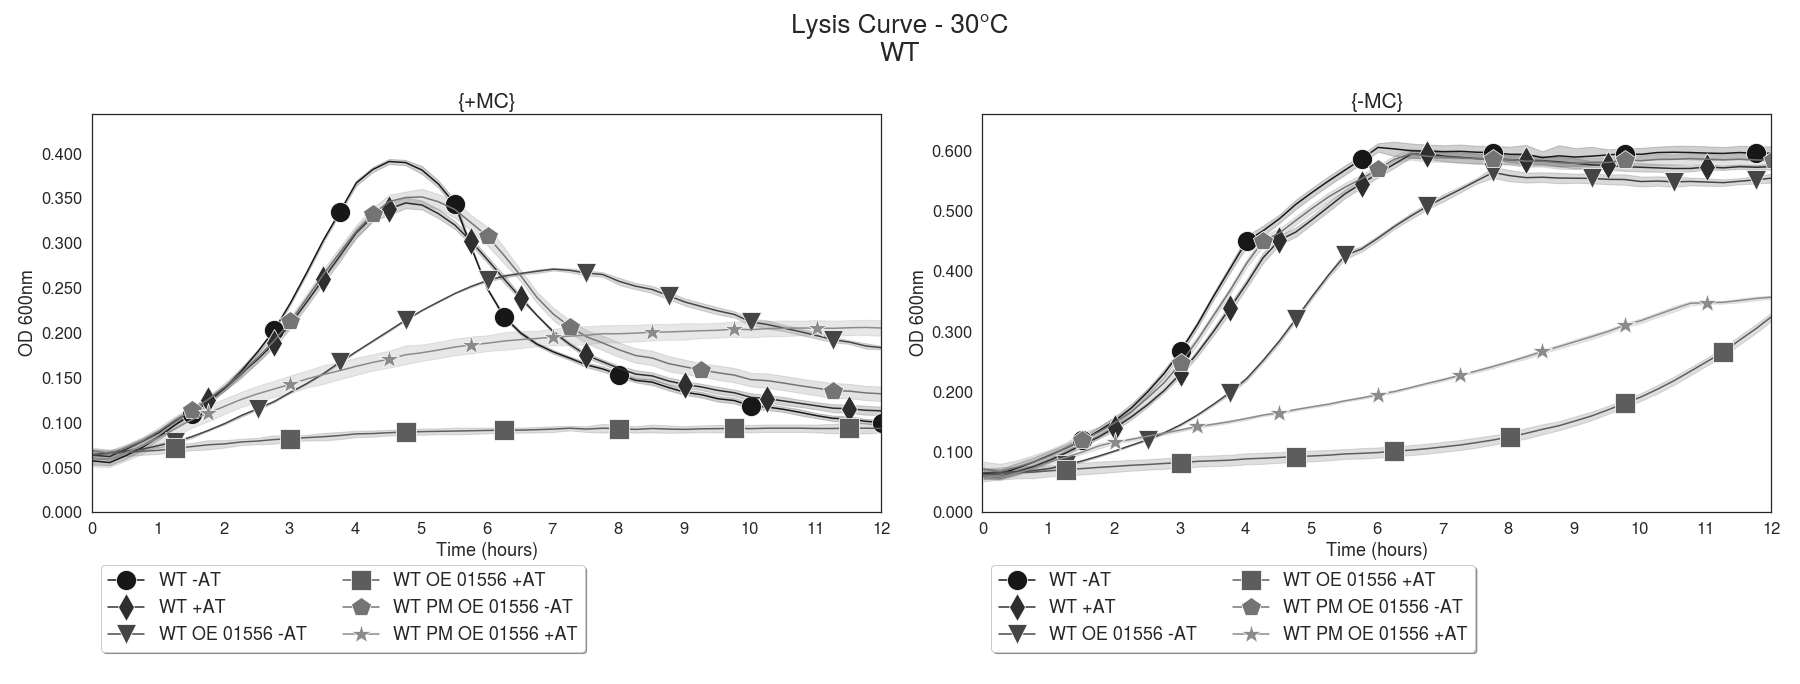
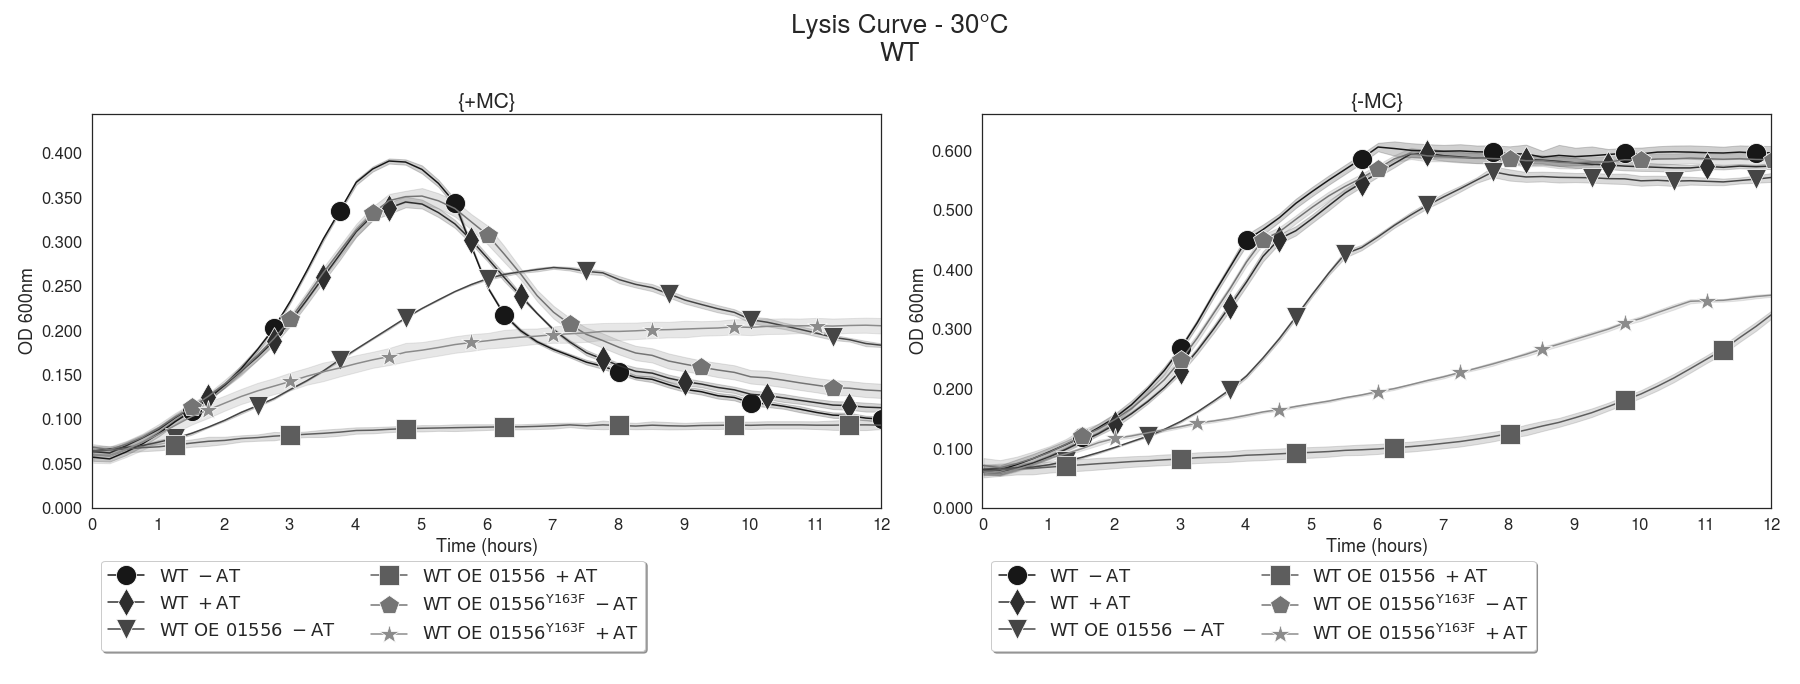
changed `OE 01556 PM` to use LaTeX -> `OE 01556^{Y163F}`

diff --git a/OE 56/point_mut/Lysis_Curve_30.py b/OE 56/point_mut/Lysis_Curve_30.py
@@ -2,6 +2,10 @@ import os
 from matplotlib import pyplot as plt
 from analysis import analyse_file, gen_pair_graphs
 
+def to_latex(cols):
+    return [r'$\mathrm{' + c.replace(' ', r'\ ') + '}$'
+            for c in cols]
+
 for rept in [1,2,3,4]:
     deg = 30
     # deg = 37
@@ -22,26 +26,29 @@ for rept in [1,2,3,4]:
     ## WT ##
     title = f'Lysis Curve - {deg}°C\nWT'
     cols = [ c for c in df.columns if 'WT' in c ]
-    fig,axs = gen_pair_graphs(df, cols, title, xticks=range(time_in_oven+1))
+    lbls = to_latex(cols)
+    fig,axs = gen_pair_graphs(df, cols, title, legend_labels=lbls, xticks=range(time_in_oven+1))
     title = title.split('\n')
     figs[title[1]] = fig
     ## WT ##
 
-    wt_cols      = [ c for c in df.columns if 'WT' in c and 'OE' not in c and 'PM' not in c ]
-    wt_oe56_cols = [ c for c in df.columns if 'WT' in c and 'OE' in c and 'PM' not in c ]
+    wt_cols      = [ c for c in df.columns if 'WT' in c and 'OE' not in c and 'Y163F' not in c ]
+    wt_oe56_cols = [ c for c in df.columns if 'WT' in c and 'OE' in c and 'Y163F' not in c ]
 
     ## cured PM ##
     title = f'Lysis Curve - {deg}°C\ncured'
-    cols = wt_cols + wt_oe56_cols + [ c for c in df.columns if 'cured PM' in c ]
-    fig,axs = gen_pair_graphs(df, cols, title, xticks=range(time_in_oven+1))
+    cols = wt_cols + wt_oe56_cols + [ c for c in df.columns if 'cured' in c and 'd_zaga' not in c ]
+    lbls = to_latex(cols)
+    fig,axs = gen_pair_graphs(df, cols, title, legend_labels=lbls, xticks=range(time_in_oven+1))
     title = title.split('\n')
     figs[title[1]] = fig
     ## cured PM ##
 
     ## cured Δzaga PM ##
     title = f'Lysis Curve - {deg}°C\ncured Δzaga'
-    cols = wt_cols + wt_oe56_cols + [ c for c in df.columns if 'cured d_zaga PM' in c ]
-    fig,axs = gen_pair_graphs(df, cols, title, xticks=range(time_in_oven+1))
+    cols = wt_cols + wt_oe56_cols + [ c for c in df.columns if 'cured d_zaga' in c ]
+    lbls = to_latex(cols)
+    fig,axs = gen_pair_graphs(df, cols, title, legend_labels=lbls, xticks=range(time_in_oven+1))
     title = title.split('\n')
     figs[title[1]] = fig
     ## cured Δzaga PM ##
@@ -49,7 +56,8 @@ for rept in [1,2,3,4]:
     ## Δstruc ##
     title = f'Lysis Curve - {deg}°C\nΔstruc'
     cols = wt_cols + wt_oe56_cols + [ c for c in df.columns if 'd_struc' in c ]
-    fig,axs = gen_pair_graphs(df, cols, title, xticks=range(time_in_oven+1))
+    lbls = to_latex(cols)
+    fig,axs = gen_pair_graphs(df, cols, title, legend_labels=lbls, xticks=range(time_in_oven+1))
     title = title.split('\n')
     figs[title[1]] = fig
     ## Δstruc ##

diff --git a/OE 56/point_mut/analysis.py b/OE 56/point_mut/analysis.py
@@ -145,6 +145,7 @@ def gen_pair_graphs(df, cols, title, title_postfix=None, suptitle=None, legend_l
     markevery_cases = [(0.1,0.1), (0.15,0.1), (0.125,0.15), (0.1,0.125)]
     # markevery_cases = [(0.1,0.1)]
     mpl.rcParams['axes.prop_cycle'] = cycler(markevery=markevery_cases)
+    # mpl.rcParams["text.usetex"] = True
     # mpl.rcParams["font.family"] = 'fantasy'
     mpl.rcParams["font.family"] = 'TeX Gyre Heros'
     
@@ -193,9 +194,8 @@ def gen_pair_graphs(df, cols, title, title_postfix=None, suptitle=None, legend_l
         ax.set_title(f'{title} {{+MC}}'.strip(), **title_kwargs)
 
     if legend_labels is not None:
-        ax.legend(legend_labels, **legend_kwargs)
-    else:
-        ax.legend(labels, **legend_kwargs)
+        labels = [col.replace(' +MC','').replace('\\\\','\\').replace('d_','Δ') for col in legend_labels if '+MC' in col]
+    ax.legend(labels, **legend_kwargs)
 
 
     # -MC #
@@ -212,9 +212,8 @@ def gen_pair_graphs(df, cols, title, title_postfix=None, suptitle=None, legend_l
         ax.set_title(f'{title} {{-MC}}'.strip(), **title_kwargs)
     
     if legend_labels is not None:
-        ax.legend(legend_labels, **legend_kwargs)
-    else:
-        ax.legend(labels, **legend_kwargs)
+        labels = [col.replace(' -MC','').replace('\\\\','\\').replace('d_','Δ') for col in legend_labels if '-MC' in col]
+    ax.legend(labels, **legend_kwargs)
 
     plt.tight_layout()
     return (fig,axs)
